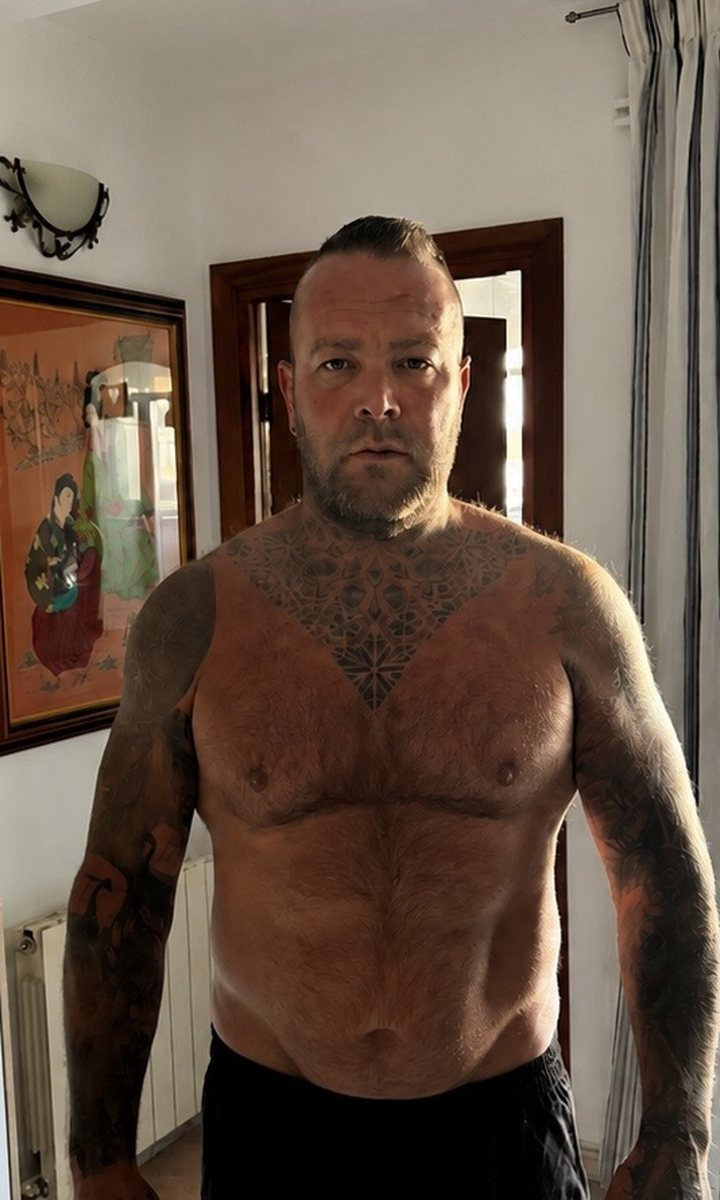
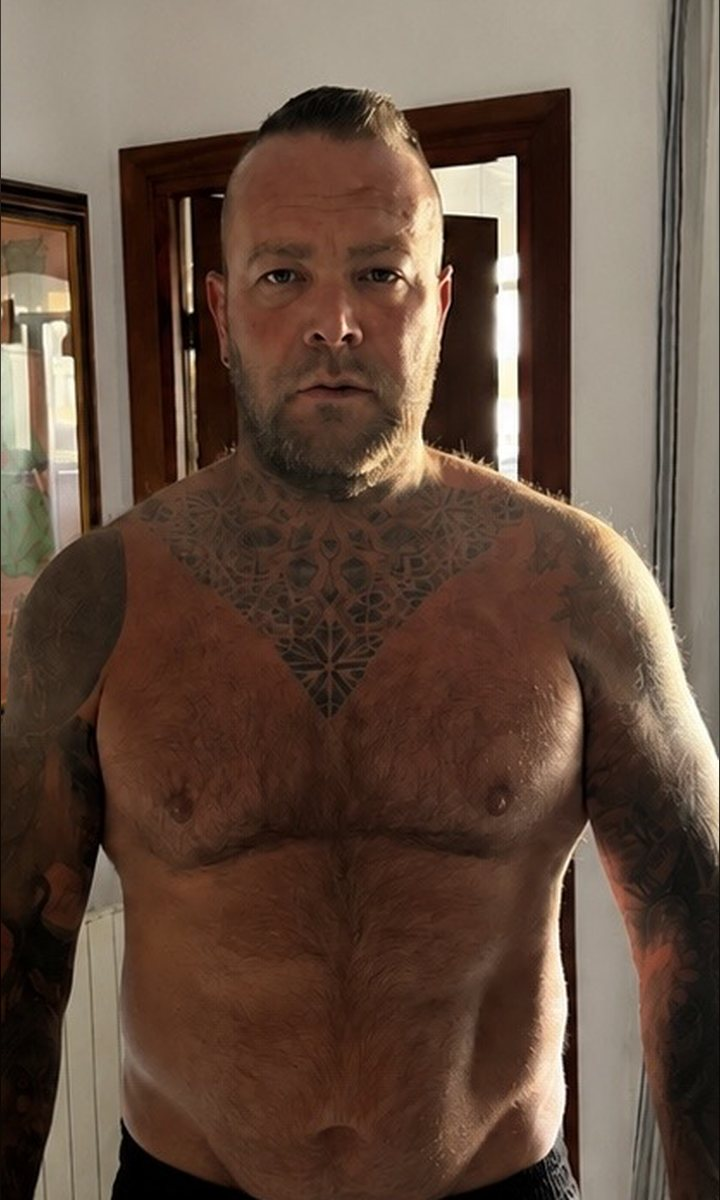
Centrar los encuadres de Juanjo y Juan, y sellar también las fotos
El "antes" de Juanjo se iba a la izquierda: el recorte automático se
guiaba por el contraste y los muebles de la cocina tiraban de él, de modo
que entraba medio mueble y se le cortaba un hombro. Se fija el centro a
mano, como ya se hizo con Luciana.

El "antes" de Juan pasa a un recorte a mano, ajustado a los brazos y con
el mínimo de fondo. El cuadro de la pared queda fuera aprovechando que su
brazo lo tapa: cortando justo por el borde del brazo desaparece el cuadro
sin perder nada de él. De paso el encuadre le queda a la misma escala que
su "después".

El sello de versión se extiende a las fotos y a la imagen de portada. Una
foto nueva estrena nombre y por tanto dirección, pero al reemplazar una
existente el nombre no cambia, así que sin sello el navegador seguiría
enseñando la vieja. Lo dicho antes sobre esto en PUBLICAR.md era erróneo y
queda corregido.

Claude-Session: https://claude.ai/code/session_01JYyLpYCo6QDPh5uQwWs7cm

diff --git a/index.html b/index.html
@@ -10,7 +10,7 @@
 <meta property="og:type" content="website">
 <meta property="og:title" content="Cambios reales | Método F90 — Álvaro Cobos">
 <meta property="og:description" content="Transformaciones físicas reales de hombres y mujeres con el Método F90. Sin humo.">
-<meta property="og:image" content="assets/img/og-f90.jpg">
+<meta property="og:image" content="assets/img/og-f90.jpg?v=202609110507">
 <meta name="twitter:card" content="summary_large_image">
 
 <link rel="icon" href="assets/img/logo-f90-mark.png">
@@ -18,7 +18,7 @@
 <link rel="preconnect" href="https://fonts.gstatic.com" crossorigin>
 <link href="https://fonts.googleapis.com/css2?family=Inter:opsz,wght@14..32,400..800&family=Instrument+Serif:ital@0;1&display=swap" rel="stylesheet">
 
-<link rel="stylesheet" href="assets/css/styles.css?v=202609110501">
+<link rel="stylesheet" href="assets/css/styles.css?v=202609110507">
 </head>
 <body>
 
@@ -65,7 +65,7 @@
     </h1>
 
     <figure class="foto entra" style="--d:.45s">
-      <img src="assets/img/alvaro.jpg" data-src="assets/img/alvaro.jpg"
+      <img src="assets/img/alvaro.jpg?v=202609110507" data-src="assets/img/alvaro.jpg?v=202609110507"
            alt="Álvaro Cobos, entrenador del Método F90"
            onerror="this.dataset.err=1; if(window.F90) F90.ph(this);">
     </figure>
@@ -426,7 +426,8 @@
   <span class="wa__nucleo"><svg aria-hidden="true"><use href="#i-whatsapp"/></svg></span>
 </a>
 
-<script src="assets/data/cambios.js?v=202609110501"></script>
-<script src="assets/js/main.js?v=202609110501"></script>
+<script>window.F90_V="202609110507";</script>
+<script src="assets/data/cambios.js?v=202609110507"></script>
+<script src="assets/js/main.js?v=202609110507"></script>
 </body>
 </html>

diff --git a/assets/js/main.js b/assets/js/main.js
@@ -46,6 +46,12 @@
 
   // Se llama desde el atributo onerror de cada <img>
   window.F90 = {
+    // Añade el sello de versión a una ruta, para que al reemplazar una foto
+    // el navegador no siga enseñando la copia guardada.
+    url: function (ruta) {
+      return ruta + (window.F90_V ? "?v=" + window.F90_V : "");
+    },
+
     ph: function (img) {
       var cont = img.parentNode;
       var ruta = img.getAttribute("data-src") || img.getAttribute("src");
@@ -63,9 +69,10 @@
   function foto(c, momento) {
     var esDespues = momento === "despues";
     var ruta = "assets/img/cambios/" + c.slug + "-" + momento + ".jpg";
+    var src = F90.url(ruta);
     var alt = (esDespues ? "Después" : "Antes") + " — " + c.nombre + ", Método F90";
     return '<figure class="shot ' + (esDespues ? "shot--after" : "shot--before") + '">' +
-             '<img src="' + ruta + '" data-src="' + ruta + '" alt="' + alt + '" ' +
+             '<img src="' + src + '" data-src="' + ruta + '" alt="' + alt + '" ' +
                   'loading="lazy" decoding="async" ' +
                   'onerror="this.dataset.err=1; if(window.F90) F90.ph(this);">' +
              '<figcaption class="shot__tag">' + (esDespues ? "Después" : "Antes") + "</figcaption>" +

diff --git a/herramientas/sellar-version.py b/herramientas/sellar-version.py
@@ -16,12 +16,17 @@ p = raiz / "index.html"
 s = p.read_text(encoding="utf-8")
 
 sello = datetime.datetime.now(datetime.timezone.utc).strftime("%Y%m%d%H%M")
-archivos = ["assets/css/styles.css", "assets/data/cambios.js", "assets/js/main.js"]
+archivos = ["assets/css/styles.css", "assets/data/cambios.js", "assets/js/main.js",
+            "assets/img/alvaro.jpg", "assets/img/og-f90.jpg"]
 
 for a in archivos:
     s = re.sub(re.escape(a) + r'(\?v=\d+)?', a + "?v=" + sello, s)
+
+# el mismo sello para las fotos, que se cargan desde el JavaScript
+s = re.sub(r'window\.F90_V\s*=\s*"\d*"', f'window.F90_V="{sello}"', s)
 
 p.write_text(s, encoding="utf-8")
 print(f"Sello de versión: {sello}")
 for a in archivos:
     print(f"  {a}?v={sello}")
+print("  y las fotos, vía window.F90_V")

diff --git a/PUBLICAR.md b/PUBLICAR.md
@@ -89,5 +89,7 @@ python3 herramientas/sellar-version.py
 Al cambiar la dirección, el navegador se ve obligado a bajarse la versión
 nueva y nadie tiene que recargar forzando.
 
-**Las fotos no lo necesitan:** cada una tiene un nombre distinto, así que
-una foto nueva ya estrena dirección por sí sola.
+**Las fotos también lo llevan.** Una foto *nueva* estrena nombre y por
+tanto dirección, pero si *reemplazas* una existente el nombre no cambia y
+el navegador seguiría enseñando la vieja. El script pone el mismo sello a
+las fotos, así que con ejecutarlo vale para todo.
